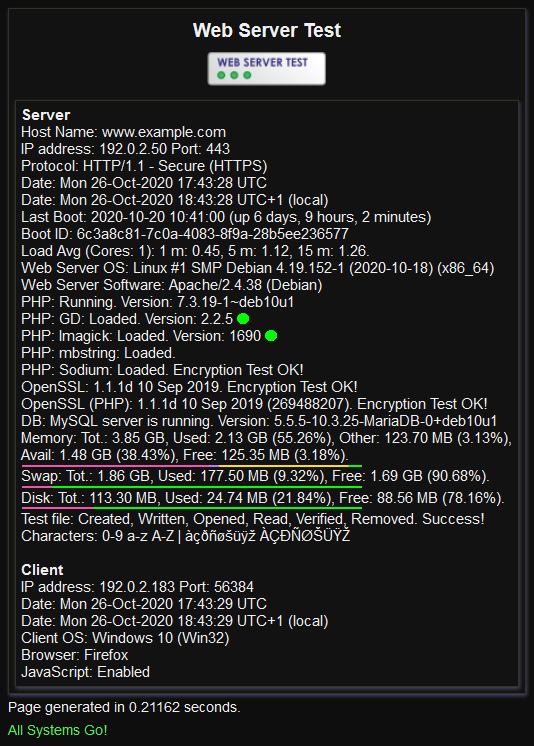
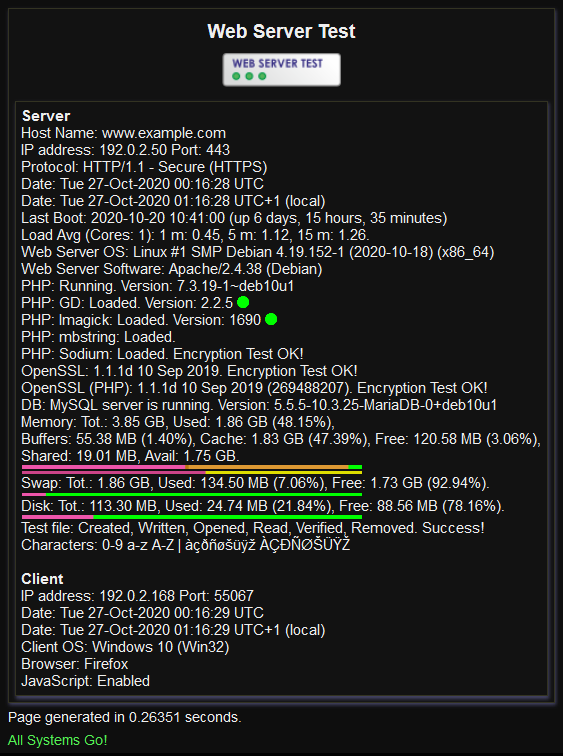
Add files via upload
- Fix: Memory was incorrectly reported

Changed region(s): [[0.0, 0.1233, 0.9888, 0.9866], [0.3596, 0.0308, 0.6592, 0.1233]]

diff --git a/webservertest.php b/webservertest.php
@@ -2,7 +2,7 @@
 $page_start_time=microtime(true);
 # Web Server Test
 # By Valerio Capello (Elf Qrin) - http://labs.geody.com/
-# v2.5.1 r2020-10-26 fr2016-10-01
+# v2.5.2 r2020-10-27 fr2016-10-01
 
 # die(); # die unconditionately, locking out any access
 
@@ -536,37 +536,42 @@ echo "<br />\n";
 }
 
 if ($tsts['memspace'] || $tsts['memspacebar'] || $logem['smemt'] || $logem['smemu'] || $logem['smema'] || $logem['smemf']) {
-$memspc=shell_exec('free | xargs | awk \'{print $8","$9","$10","$13}\''); # Memory: Total, Used, Free, Available
+$memspc=shell_exec('free -w | xargs | awk \'{print $9","$10","$11","$12","$13","$14","$15}\''); # Memory: Total, Used, Free, Shared, Buffers, Cache, Available
 $memspca=explode(',',$memspc);
 for ($i=0; $i<count($memspca); ++$i) {$memspca[$i]=(int)$memspca[$i];}
-$memspca[4]=$memspca[0]-($memspca[1]+$memspca[2]+$memspca[3]); # Other (cache / buffers)
+# $memspca[4]=$memspca[0]-($memspca[1]+$memspca[2]+$memspca[3]); # Other (cache / buffers)
 
 if ($memspca[0]!=0) {
-$memusdp=sprintf('%1.2f',$memspca[1]*100/$memspca[0]); $memfrep=sprintf('%1.2f',$memspca[2]*100/$memspca[0]); $memavlp=sprintf('%1.2f',$memspca[3]*100/$memspca[0]); $memothp=sprintf('%1.2f',$memspca[4]*100/$memspca[0]);
+$memusdp=sprintf('%1.2f',$memspca[1]*100/$memspca[0]); $memfrep=sprintf('%1.2f',$memspca[2]*100/$memspca[0]); $membufp=sprintf('%1.2f',$memspca[4]*100/$memspca[0]); $memcacp=sprintf('%1.2f',$memspca[5]*100/$memspca[0]);
+$memavlp=sprintf('%1.2f',$memspca[6]*100/$memspca[0]);
 } else {
-$memusdp=0; $memfrep=0; $memavlp=0; $memothp=0;
+$memusdp=0; $memfrep=0; $membufp=0; $memcacp=0; $memavlp=0;
 }
 
 }
 
 if ($memsfmt==2) {
-$memtot=hrsize($memspca[0]*1024); $memusd=hrsize($memspca[1]*1024); $memfre=hrsize($memspca[2]*1024); $memavl=hrsize($memspca[3]*1024); $memoth=hrsize($memspca[4]*1024);
+# Memory: Total, Used, Free, Shared, Buffers, Cache, Available
+$memtot=hrsize($memspca[0]*1024); $memusd=hrsize($memspca[1]*1024); $memfre=hrsize($memspca[2]*1024); $memsha=hrsize($memspca[3]*1024); $membuf=hrsize($memspca[4]*1024); $memcac=hrsize($memspca[5]*1024); $memavl=hrsize($memspca[6]*1024);
 } else {
-$memtot=$memspca[0]*1024; $memusd=$memspca[1]*1024; $memfre=$memspca[2]*1024; $memavl=$memspca[3]*1024; $memoth=$memspca[4]*1024;
+$memtot=$memspca[0]*1024; $memusd=$memspca[1]*1024; $memfre=$memspca[2]*1024; $memsha=$memspca[3]*1024; $membuf=$memspca[4]*1024; $memcac=$memspca[5]*1024; $memavl=$memspca[6]*1024;
 }
 
 if ($tsts['memspace']) {
 echo 'Memory'.': ';
 echo 'Tot.'.': '.$memtot.', ';
-echo 'Used'.': '.$memusd.' ('.$memusdp.'%'.')'.', ';
-echo 'Other'.': '.$memoth.' ('.$memothp.'%'.')'.', '; echo "<br />";
-echo 'Avail'.': '.$memavl.' ('.$memavlp.'%'.')'.', ';
-echo 'Free'.': '.$memfre.' ('.$memfrep.'%'.')'.'.';
+echo 'Used'.': '.$memusd.' ('.$memusdp.'%'.')'.', '; echo "<br />";
+echo 'Buffers'.': '.$membuf.' ('.$membufp.'%'.')'.', ';
+echo 'Cache'.': '.$memcac.' ('.$memcacp.'%'.')'.', ';
+echo 'Free'.': '.$memfre.' ('.$memfrep.'%'.')'.', '; echo "<br />";
+echo 'Shared'.': '.$memsha.', ';
+echo 'Avail'.': '.$memavl.'.';
 echo "<br />\n";
 }
 
 if ($tsts['memspacebar']) {
-progbar('div',300,2,1,array(floor($memusdp),floor($memusdp+$memothp),floor($memusdp+$memothp+$memavlp)),array("#ee55aa","#bb77ee","#ffdd11","#00ff00"),"#111111");
+progbar('div',300,3,1,array(floor($memusdp),floor($memusdp+$membufp),floor($memusdp+$membufp+$memcacp)),array("#ee55aa","#bb7711","#dd9933","#00ff00"),"#111111");
+progbar('div',300,3,1,array(floor(100-$memavlp)),array("#cc4488","#dddd00"),"#111111");
 # echo "<br />\n";
 }
 
@@ -600,7 +605,7 @@ echo "<br />\n";
 }
 
 if ($tsts['swapspacebar']) {
-progbar('div',300,2,1,array(floor($swpusdp)),array("#ee55aa","#00ff00"),"#111111");
+progbar('div',300,3,1,array(floor($swpusdp)),array("#ee55aa","#00ff00"),"#111111");
 # echo "<br />\n";
 }
 
@@ -635,7 +640,7 @@ echo "<br />\n";
 }
 
 if ($tsts['diskspacebar']) {
-progbar('div',300,2,1,array(floor($dup)),array("#ee55aa","#00ff00"),"#111111");
+progbar('div',300,3,1,array(floor($dup)),array("#ee55aa","#00ff00"),"#111111");
 # echo "<br />\n";
 }
 
